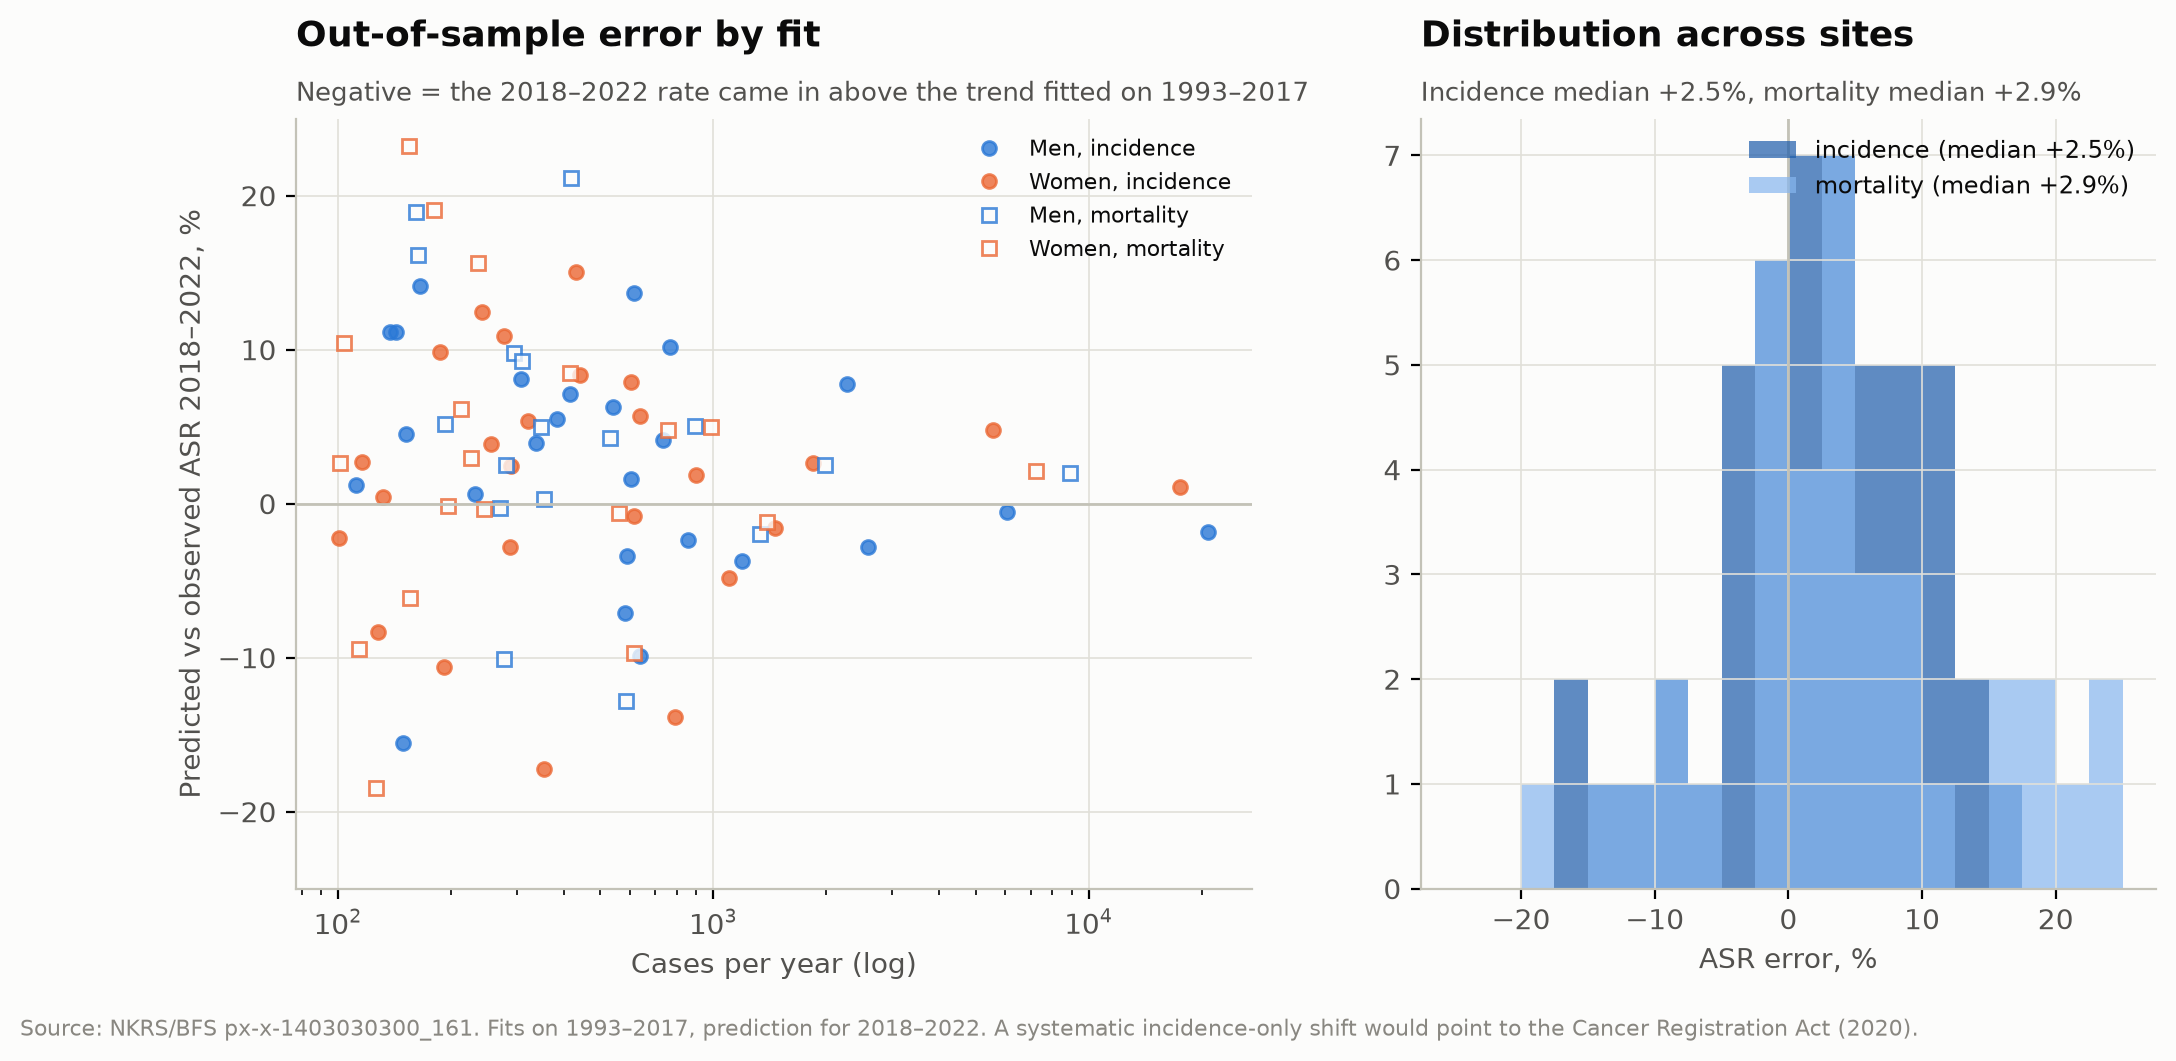
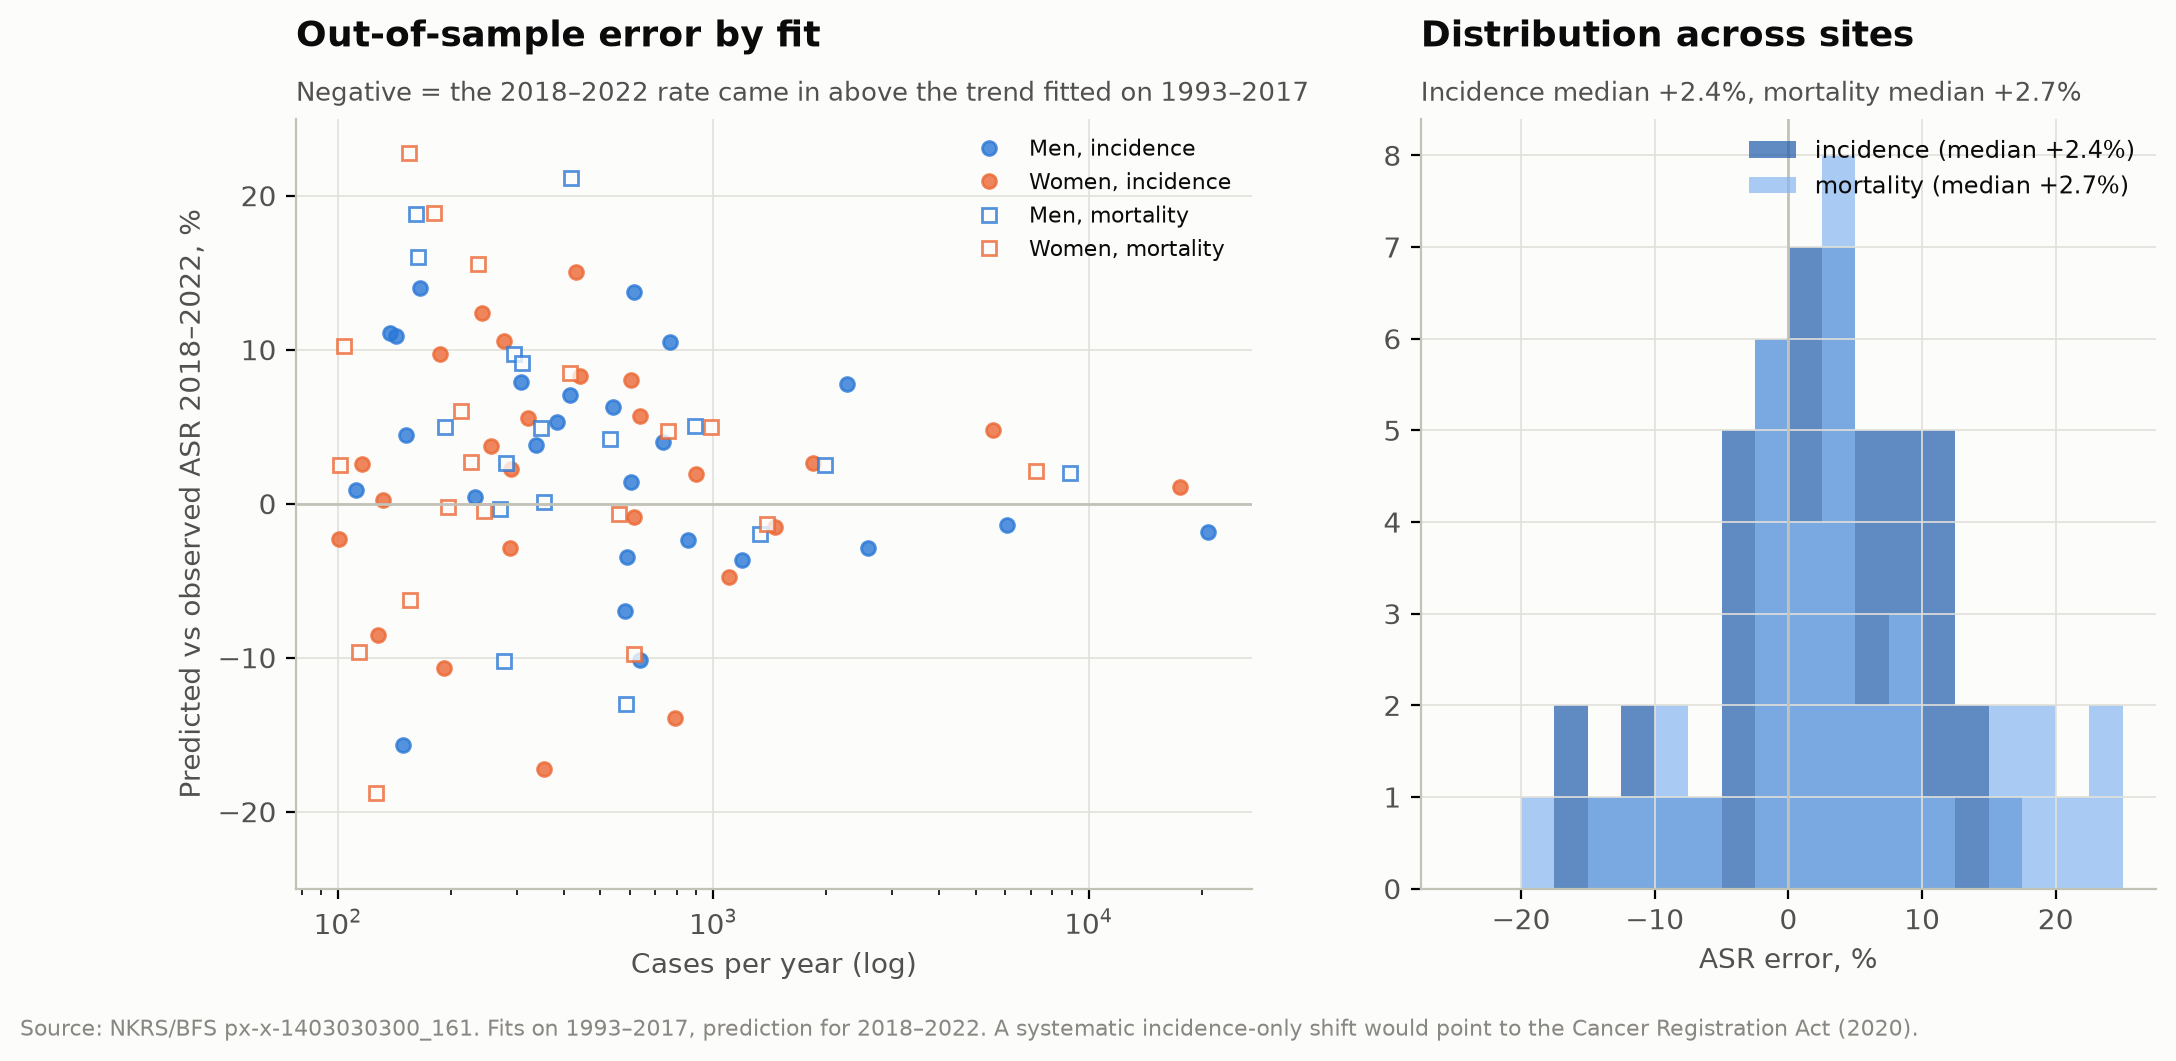
v1.1: final backtest numbers (320/321), holdout assets after reruns, conftest device count

diff --git a/tests/conftest.py b/tests/conftest.py
@@ -4,9 +4,10 @@ real data tree is read or written."""
 import importlib.util
 import os
 import sys
-import numpyro
-numpyro.set_host_device_count(4)
 from pathlib import Path
+
+import numpyro
+numpyro.set_host_device_count(4)        # before jax initialises: parallel chains in the slow test
 
 import pytest
 

diff --git a/README.md b/README.md
@@ -122,7 +122,7 @@ incidence-only jump that the 2020 Cancer Registration Act would have produced.*
 
 *The same test at three origins. Models trained to 2007 and to 2012 predict the periods before
 2018 with no bias (medians −2.5…0%); every prediction of 2018–2022, from whichever origin,
-comes in positive (observed below trend), most clearly for mortality (+1.8…+3.4%). The shift
+comes in positive (observed below trend), most clearly for mortality (+2.0…+2.7%). The shift
 belongs to those years, not to the model. Error grows with horizon: median absolute deviation
 5% one period ahead, 8% at two, 12–15% at three, which is the yardstick for the 2030
 projection below.*
@@ -184,7 +184,7 @@ estimated two independent ways that agree to 0.001.
 | Cause-of-death vs cancer-registry mortality ASR | all cancers −0.4%, lung −0.3%, stomach +0.4%, prostate −0.7% |
 | Model on synthetic data with known drift −1.5%/yr and a cohort bump at 1968 | recovers −1.48%/yr (−1.60…−1.35) and 1968 |
 | Holdout 2018–2022, 87 fits with ≥100 cases/yr | median error +2.5% incidence, +2.9% mortality |
-| Rolling-origin backtest, origins 2007/2012/2017, 321 fits | periods before 2018 unbiased (−2.5…0%); 2018–2022 below trend from every origin (+1.2…+3.4%); MAD 5% at h1, 8% at h2, 12–15% at h3 |
+| Rolling-origin backtest, origins 2007/2012/2017, 321 fits | periods before 2018 unbiased (−2.5…0%); 2018–2022 below trend from every origin (+0.7…+2.7%); MAD 5% at h1, 8% at h2, 12–15% at h3 |
 | Unit tests (`pytest`, run in CI) | population convention, ESP1976 and ASR, RW2 normalisation, detrending, model forward pass, convergence gate |
 
 ## Pipeline
@@ -260,7 +260,7 @@ acceptance 0.99 brought every one through without touching the model. Open, trac
 GitHub issues:
 
 Also done: rolling-origin backtesting at origins 2007, 2012 and 2017 (`s06 --train-until`,
-`s08_backtest`), 321 fits, 317 converged at the first seed; and `docs/research_findings.md`.
+`s08_backtest`), 321 fits, 320 converged; and `docs/research_findings.md`.
 
 1. **Prior sensitivity** on ten key sites: drift, random-walk and extra-Poisson scales
    varied ×0.3 and ×3.

diff --git a/docs/wiki/07_apc_model.md b/docs/wiki/07_apc_model.md
@@ -60,17 +60,18 @@ cohort bump (1968): the model recovers −1.48%/yr (−1.60…−1.35) and the b
   came in slightly *below* the extrapolated trend for both indicators.
 - **Rolling-origin backtest** (`s06 --train-until 2007|2012|2017`, report in `s08_backtest`):
   the same fit repeated with the training window ending in 2007 (three periods), 2012 (four)
-  and 2017 (five), every later period scored at horizon 1, 2, 3. 321 fits, 317 converged at
-  the first seed, the other four at seed 2.
+  and 2017 (five), every later period scored at horizon 1, 2, 3. 321 fits, 320 converged (three
+  of them at seed 2); female lung incidence trained to 2012 keeps 34–38 divergences at both
+  seeds and is excluded: four periods cannot separate the 1950s cohort from a drift.
 
   | Target period | Incidence, origin 2007 / 2012 / 2017 | Mortality |
   |---|---|---|
   | 2008–2012 | −0.3 | −1.3 |
   | 2013–2017 | +0.0 / −1.6 | −1.9 / −2.5 |
-  | 2018–2022 | −0.2 / +1.2 / **+2.4** | +2.6 / +1.8 / **+3.4** |
+  | 2018–2022 | −0.2 / +0.7 / **+2.4** | +2.6 / +2.0 / **+2.7** |
 
   Medians of the ASR error (predicted / observed − 1) over fits with ≥100 cases per year,
-  n = 36–50 per cell. Two things follow. The positive shift is a property of the period
+  n = 37–50 per cell. Two things follow. The positive shift is a property of the period
   2018–2022, not of the model: the same models predict 2008–2017 with no bias or a slightly
   negative one. And error grows with horizon in a regular way: median absolute deviation
   4–6% one period ahead, 7–8% at two, 12–15% at three; the share of fits within ±10% falls

diff --git a/docs/wiki_bookstack/07_apc_model.md b/docs/wiki_bookstack/07_apc_model.md
@@ -60,17 +60,18 @@ cohort bump (1968): the model recovers −1.48%/yr (−1.60…−1.35) and the b
   came in slightly *below* the extrapolated trend for both indicators.
 - **Rolling-origin backtest** (`s06 --train-until 2007|2012|2017`, report in `s08_backtest`):
   the same fit repeated with the training window ending in 2007 (three periods), 2012 (four)
-  and 2017 (five), every later period scored at horizon 1, 2, 3. 321 fits, 317 converged at
-  the first seed, the other four at seed 2.
+  and 2017 (five), every later period scored at horizon 1, 2, 3. 321 fits, 320 converged (three
+  of them at seed 2); female lung incidence trained to 2012 keeps 34–38 divergences at both
+  seeds and is excluded: four periods cannot separate the 1950s cohort from a drift.
 
   | Target period | Incidence, origin 2007 / 2012 / 2017 | Mortality |
   |---|---|---|
   | 2008–2012 | −0.3 | −1.3 |
   | 2013–2017 | +0.0 / −1.6 | −1.9 / −2.5 |
-  | 2018–2022 | −0.2 / +1.2 / **+2.4** | +2.6 / +1.8 / **+3.4** |
+  | 2018–2022 | −0.2 / +0.7 / **+2.4** | +2.6 / +2.0 / **+2.7** |
 
   Medians of the ASR error (predicted / observed − 1) over fits with ≥100 cases per year,
-  n = 36–50 per cell. Two things follow. The positive shift is a property of the period
+  n = 37–50 per cell. Two things follow. The positive shift is a property of the period
   2018–2022, not of the model: the same models predict 2008–2017 with no bias or a slightly
   negative one. And error grows with horizon in a regular way: median absolute deviation
   4–6% one period ahead, 7–8% at two, 12–15% at three; the share of fits within ±10% falls

diff --git a/docs/wiki/08_results.md b/docs/wiki/08_results.md
@@ -103,8 +103,8 @@ incidence-only jump that the Cancer Registration Act (2020) would have produced.
 
 Repeating the test from origins 2007 and 2012 (chapter 07) shows that the shift belongs to the
 years 2018–2022 and not to the model: predictions of 2008–2017 from the earlier origins are
-unbiased or slightly negative, while every prediction of 2018–2022 comes in positive, +1.2…+2.4%
-for incidence and +1.8…+3.4% for mortality. The size is modest and the mortality signal is the
+unbiased or slightly negative, while every prediction of 2018–2022 comes in positive, +0.7…+2.4%
+for incidence and +2.0…+2.7% for mortality. The size is modest and the mortality signal is the
 clearer one, which is what fewer diagnoses in 2020–2021 and competing causes of death would
 produce. The backtest also calibrates the projection in section 5: the median absolute error is
 about 8% two periods ahead, which is the horizon of the 2028–2032 figures.

diff --git a/docs/wiki_bookstack/08_results.md b/docs/wiki_bookstack/08_results.md
@@ -103,8 +103,8 @@ incidence-only jump that the Cancer Registration Act (2020) would have produced.
 
 Repeating the test from origins 2007 and 2012 (chapter 07) shows that the shift belongs to the
 years 2018–2022 and not to the model: predictions of 2008–2017 from the earlier origins are
-unbiased or slightly negative, while every prediction of 2018–2022 comes in positive, +1.2…+2.4%
-for incidence and +1.8…+3.4% for mortality. The size is modest and the mortality signal is the
+unbiased or slightly negative, while every prediction of 2018–2022 comes in positive, +0.7…+2.4%
+for incidence and +2.0…+2.7% for mortality. The size is modest and the mortality signal is the
 clearer one, which is what fewer diagnoses in 2020–2021 and competing causes of death would
 produce. The backtest also calibrates the projection in section 5: the median absolute error is
 about 8% two periods ahead, which is the horizon of the 2028–2032 figures.

diff --git a/docs/research_findings.md b/docs/research_findings.md
@@ -111,7 +111,7 @@ target acceptance 0.9) and v1.1 (4 × 2000, 0.99, stricter gate) no drift moved 
 **B13. The 2018–2022 shift is period-specific, not a model bias.** Rolling-origin backtest:
 models trained to 2007 and 2012 predict 2008–2017 with medians −2.5…0% (observed at or
 slightly above trend); every prediction of 2018–2022, from origins 2007, 2012 and 2017, is
-positive: incidence −0.2 / +1.2 / +2.4, mortality +2.6 / +1.8 / +3.4 (n = 36–50 per cell).
+positive: incidence −0.2 / +0.7 / +2.4, mortality +2.6 / +2.0 / +2.7 (n = 37–50 per cell).
 `s08_backtest`, `fig12`, `backtest_summary.json`.
 
 **B14. Projection error doubles per five-year horizon.** Median absolute deviation of the ASR

diff --git a/docs/wiki/10_research_findings.md b/docs/wiki/10_research_findings.md
@@ -115,7 +115,7 @@ target acceptance 0.9) and v1.1 (4 × 2000, 0.99, stricter gate) no drift moved 
 **B13. The 2018–2022 shift is period-specific, not a model bias.** Rolling-origin backtest:
 models trained to 2007 and 2012 predict 2008–2017 with medians −2.5…0% (observed at or
 slightly above trend); every prediction of 2018–2022, from origins 2007, 2012 and 2017, is
-positive: incidence −0.2 / +1.2 / +2.4, mortality +2.6 / +1.8 / +3.4 (n = 36–50 per cell).
+positive: incidence −0.2 / +0.7 / +2.4, mortality +2.6 / +2.0 / +2.7 (n = 37–50 per cell).
 `s08_backtest`, `fig12`, `backtest_summary.json`.
 
 **B14. Projection error doubles per five-year horizon.** Median absolute deviation of the ASR

diff --git a/docs/wiki_bookstack/10_research_findings.md b/docs/wiki_bookstack/10_research_findings.md
@@ -115,7 +115,7 @@ target acceptance 0.9) and v1.1 (4 × 2000, 0.99, stricter gate) no drift moved 
 **B13. The 2018–2022 shift is period-specific, not a model bias.** Rolling-origin backtest:
 models trained to 2007 and 2012 predict 2008–2017 with medians −2.5…0% (observed at or
 slightly above trend); every prediction of 2018–2022, from origins 2007, 2012 and 2017, is
-positive: incidence −0.2 / +1.2 / +2.4, mortality +2.6 / +1.8 / +3.4 (n = 36–50 per cell).
+positive: incidence −0.2 / +0.7 / +2.4, mortality +2.6 / +2.0 / +2.7 (n = 37–50 per cell).
 `s08_backtest`, `fig12`, `backtest_summary.json`.
 
 **B14. Projection error doubles per five-year horizon.** Median absolute deviation of the ASR
